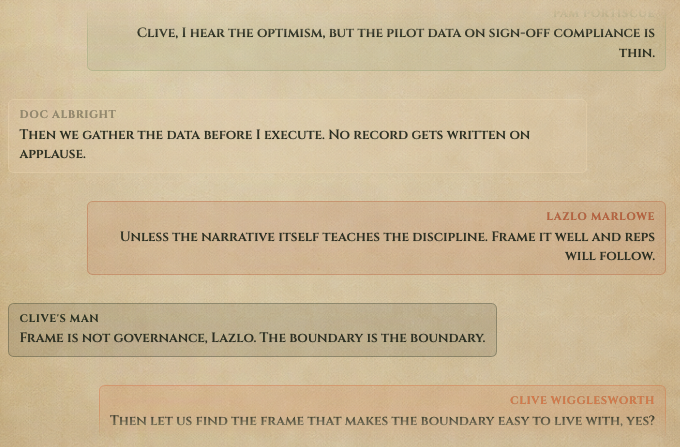
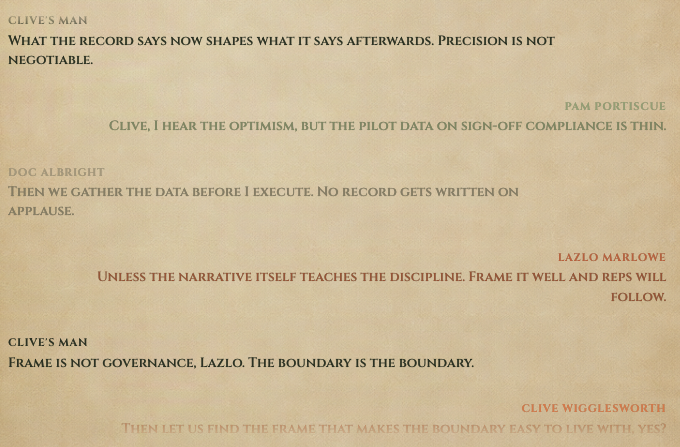
Court deliberation: coloured ink only; centre decide-state strips.
Remove chat-bubble chrome from the bicker flurry — each turn is agent-coloured name + body text on the parchment with PR #95 spacing. Decide-state verdict labels use the same flex centre band as pending strips, with a Cinzel optical nudge and seat-0 slotY tweak.

diff --git a/website/src/lib/platform/court.ts b/website/src/lib/platform/court.ts
@@ -100,60 +100,50 @@ export interface BickerTurn {
   line: string;
 }
 
-/** Per-cast ink for deliberation bubbles — brand tints, page-scoped. */
+/** Per-cast ink for deliberation flurry — brand tokens only, no bubble chrome. */
 export const COURT_CAST_ACCENTS: Record<
   CourtRoleId | "user",
-  { speaker: string; bubble: string; border: string }
+  { speaker: string; body: string }
 > = {
   clive: {
     speaker: "var(--color-apricot)",
-    bubble: "color-mix(in srgb, var(--color-apricot) 16%, transparent)",
-    border: "color-mix(in srgb, var(--color-apricot) 42%, transparent)",
+    body: "color-mix(in srgb, var(--color-apricot) 78%, var(--book-ink))",
   },
   pam: {
-    speaker: "color-mix(in srgb, var(--color-sage) 88%, var(--book-ink))",
-    bubble: "color-mix(in srgb, var(--color-sage) 18%, transparent)",
-    border: "color-mix(in srgb, var(--color-sage) 45%, transparent)",
+    speaker: "color-mix(in srgb, var(--color-sage) 92%, var(--book-ink))",
+    body: "color-mix(in srgb, var(--color-sage) 72%, var(--book-ink))",
   },
   doc: {
-    speaker: "color-mix(in srgb, var(--color-parchment) 55%, var(--book-ink))",
-    bubble: "color-mix(in srgb, var(--color-parchment) 22%, transparent)",
-    border: "color-mix(in srgb, var(--color-parchment) 48%, transparent)",
+    speaker: "color-mix(in srgb, var(--color-parchment) 65%, var(--book-ink))",
+    body: "color-mix(in srgb, var(--color-parchment) 48%, var(--book-ink))",
   },
   lazlo: {
     speaker: "var(--color-health-unhappy)",
-    bubble: "color-mix(in srgb, var(--color-health-unhappy) 14%, transparent)",
-    border: "color-mix(in srgb, var(--color-health-unhappy) 38%, transparent)",
+    body: "color-mix(in srgb, var(--color-health-unhappy) 75%, var(--book-ink))",
   },
   "clive-man": {
-    speaker: "color-mix(in srgb, var(--color-moss) 75%, var(--book-ink))",
-    bubble: "color-mix(in srgb, var(--color-moss) 12%, transparent)",
-    border: "color-mix(in srgb, var(--color-moss) 32%, transparent)",
+    speaker: "color-mix(in srgb, var(--color-moss) 82%, var(--book-ink))",
+    body: "color-mix(in srgb, var(--color-moss) 62%, var(--book-ink))",
   },
   kate: {
-    speaker: "color-mix(in srgb, var(--color-health-thriving) 80%, var(--book-ink))",
-    bubble: "color-mix(in srgb, var(--color-health-thriving) 14%, transparent)",
-    border: "color-mix(in srgb, var(--color-health-thriving) 36%, transparent)",
+    speaker: "var(--color-health-thriving)",
+    body: "color-mix(in srgb, var(--color-health-thriving) 72%, var(--book-ink))",
   },
   halvard: {
-    speaker: "color-mix(in srgb, var(--color-sage) 70%, var(--color-ink))",
-    bubble: "color-mix(in srgb, var(--color-sage) 12%, transparent)",
-    border: "color-mix(in srgb, var(--color-sage) 32%, transparent)",
+    speaker: "color-mix(in srgb, var(--color-sage) 85%, var(--book-ink))",
+    body: "color-mix(in srgb, var(--color-sage) 68%, var(--book-ink))",
   },
   milo: {
-    speaker: "color-mix(in srgb, var(--color-apricot) 75%, var(--color-health-okay))",
-    bubble: "color-mix(in srgb, var(--color-buttermilk) 20%, transparent)",
-    border: "color-mix(in srgb, var(--color-apricot) 32%, transparent)",
+    speaker: "color-mix(in srgb, var(--color-apricot) 80%, var(--color-health-okay))",
+    body: "color-mix(in srgb, var(--color-apricot) 58%, var(--book-ink))",
   },
   judge: {
-    speaker: "color-mix(in srgb, var(--book-ink) 62%, transparent)",
-    bubble: "color-mix(in srgb, var(--book-ink) 8%, transparent)",
-    border: "color-mix(in srgb, var(--book-ink) 22%, transparent)",
+    speaker: "color-mix(in srgb, var(--book-ink) 72%, transparent)",
+    body: "color-mix(in srgb, var(--book-ink) 88%, transparent)",
   },
   user: {
     speaker: "var(--book-ink)",
-    bubble: "color-mix(in srgb, var(--book-ink) 6%, transparent)",
-    border: "color-mix(in srgb, var(--book-ink) 24%, transparent)",
+    body: "color-mix(in srgb, var(--book-ink) 78%, transparent)",
   },
 };
 
@@ -211,7 +201,7 @@ export const COURT_BOOK_LAYOUT = {
    * on the punched oval openings in book-blank-with-holes.png; portraits
    * fill the holes exactly — the gilt frames live in the plate art. */
   seats: [
-    { x: 13.22, y: 15.72, width: 3.65, height: 8.3, slotY: 15.86 },
+    { x: 13.22, y: 15.72, width: 3.65, height: 8.3, slotY: 15.74 },
     { x: 13.22, y: 28.63, width: 3.65, height: 8.3, slotY: 28.75 },
     { x: 13.21, y: 41.53, width: 3.65, height: 8.3, slotY: 41.64 },
     { x: 13.22, y: 54.62, width: 3.65, height: 8.5, slotY: 54.75 },

diff --git a/website/src/app/globals.css b/website/src/app/globals.css
@@ -4767,8 +4767,9 @@ body {
 
 .platform-court__verdict-slot {
   position: absolute;
-  display: grid;
-  place-items: center;
+  display: flex;
+  align-items: center;
+  justify-content: center;
   padding: 0;
   overflow: hidden;
   text-align: center;
@@ -4799,16 +4800,34 @@ body {
    approve" engraves itself. Letterpress relief via paired text-shadows —
    light below, dark above — presses the ink into the paint. --slot-ink
    varies the ink weight per entry. */
-.platform-court__verdict-text {
+.platform-court__verdict-decided {
+  display: flex;
+  align-items: center;
+  justify-content: center;
   width: 100%;
+  height: 100%;
+  margin: 0;
+  padding: 0 6%;
+  box-sizing: border-box;
+}
+
+.platform-court__verdict-text {
+  display: block;
+  width: 100%;
+  max-width: 100%;
   text-align: center;
+  text-wrap: balance;
   color: var(--book-ink);
   opacity: var(--slot-ink, 0.85);
   font-family: var(--font-wall);
   font-weight: 600;
   font-size: clamp(0.74rem, 1.2vw, 1.1rem);
+  line-height: 1.1;
   letter-spacing: 0.06em;
   text-shadow: var(--court-engraved-shadow);
+  /* Cancel trailing letter-spacing gap; nudge Cinzel caps to optical centre. */
+  margin-right: -0.06em;
+  transform: translateY(-0.08em);
   animation: verdictInkIn 0.9s ease-out both;
 }
 
@@ -4946,11 +4965,6 @@ body {
   max-width: 88%;
   font-size: 0.875rem;
   line-height: 1.4;
-  color: var(--book-ink);
-  padding: 0.45rem 0.65rem;
-  border-radius: 0.35rem;
-  border: 1px solid var(--bicker-border, color-mix(in srgb, var(--book-ink) 18%, transparent));
-  background: var(--bicker-bubble, color-mix(in srgb, var(--book-ink) 5%, transparent));
   animation: bickerTurnIn 0.45s ease-out both;
 }
 
@@ -4980,7 +4994,7 @@ body {
   margin: 0;
   font-size: 0.84rem;
   line-height: 1.45;
-  color: color-mix(in srgb, var(--book-ink) 92%, transparent);
+  color: var(--bicker-body, var(--book-ink));
 }
 
 @keyframes bickerTurnInLeft {
@@ -7688,7 +7702,7 @@ textarea.clive-chat__input {
 .court-stage .platform-court__verdict-panel-inner p,
 .court-stage .platform-court__seat-picker-note,
 .court-stage .platform-court__bicker-line {
-  color: var(--book-ink);
+  color: var(--bicker-body, var(--book-ink));
   text-shadow: var(--court-ink-body-shadow);
 }
 

diff --git a/website/src/components/platform/CourtShell.tsx b/website/src/components/platform/CourtShell.tsx
@@ -116,7 +116,9 @@ function BenchVerdictSlots({
           onSelectRole ? " platform-court__verdict-slot--clickable" : ""
         }`;
         const inner = verdict ? (
-          <span className="platform-court__verdict-text">{verdict.verdict}</span>
+          <div className="platform-court__verdict-decided">
+            <span className="platform-court__verdict-text">{verdict.verdict}</span>
+          </div>
         ) : (
           <div
             className={`platform-court__verdict-pending${
@@ -614,8 +616,7 @@ function CourtBook({ decision }: { decision: CourtDecision }) {
                       style={
                         {
                           "--bicker-speaker": accent.speaker,
-                          "--bicker-bubble": accent.bubble,
-                          "--bicker-border": accent.border,
+                          "--bicker-body": accent.body,
                         } as CSSProperties
                       }
                     >
